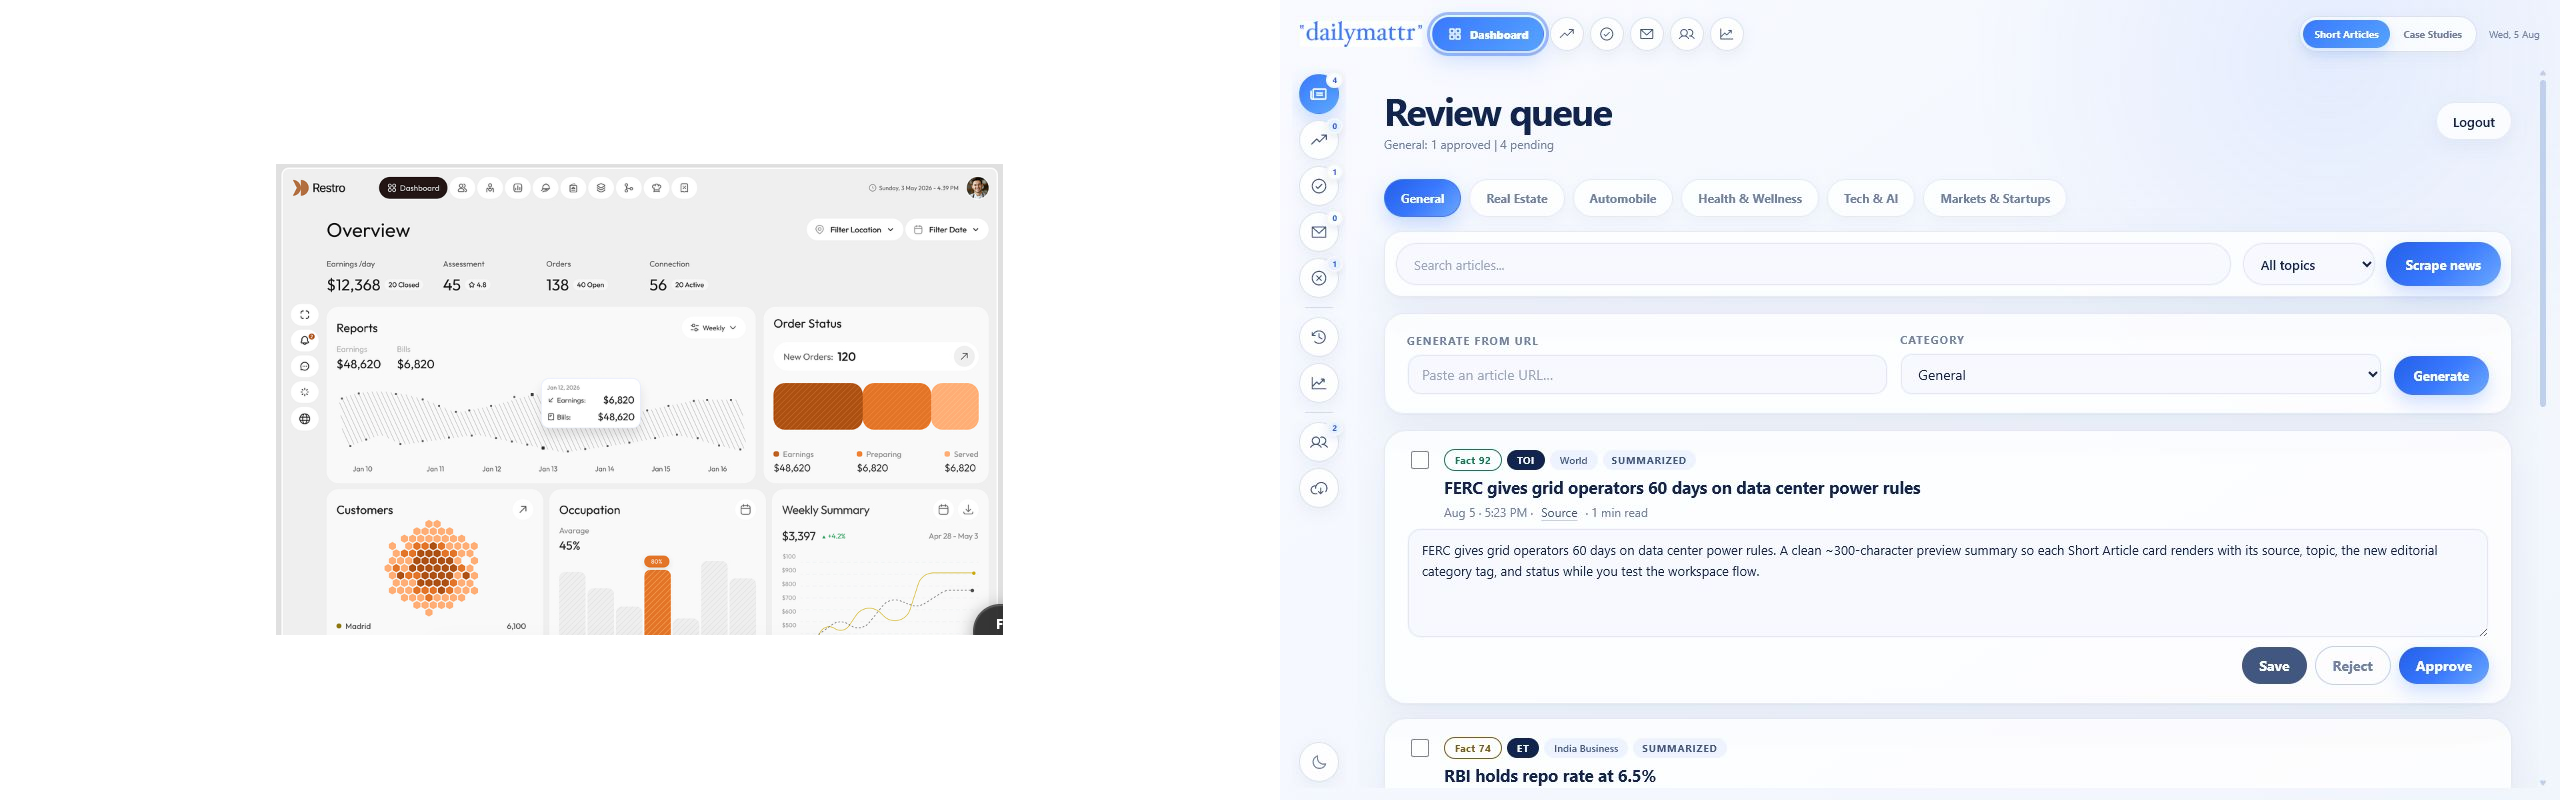
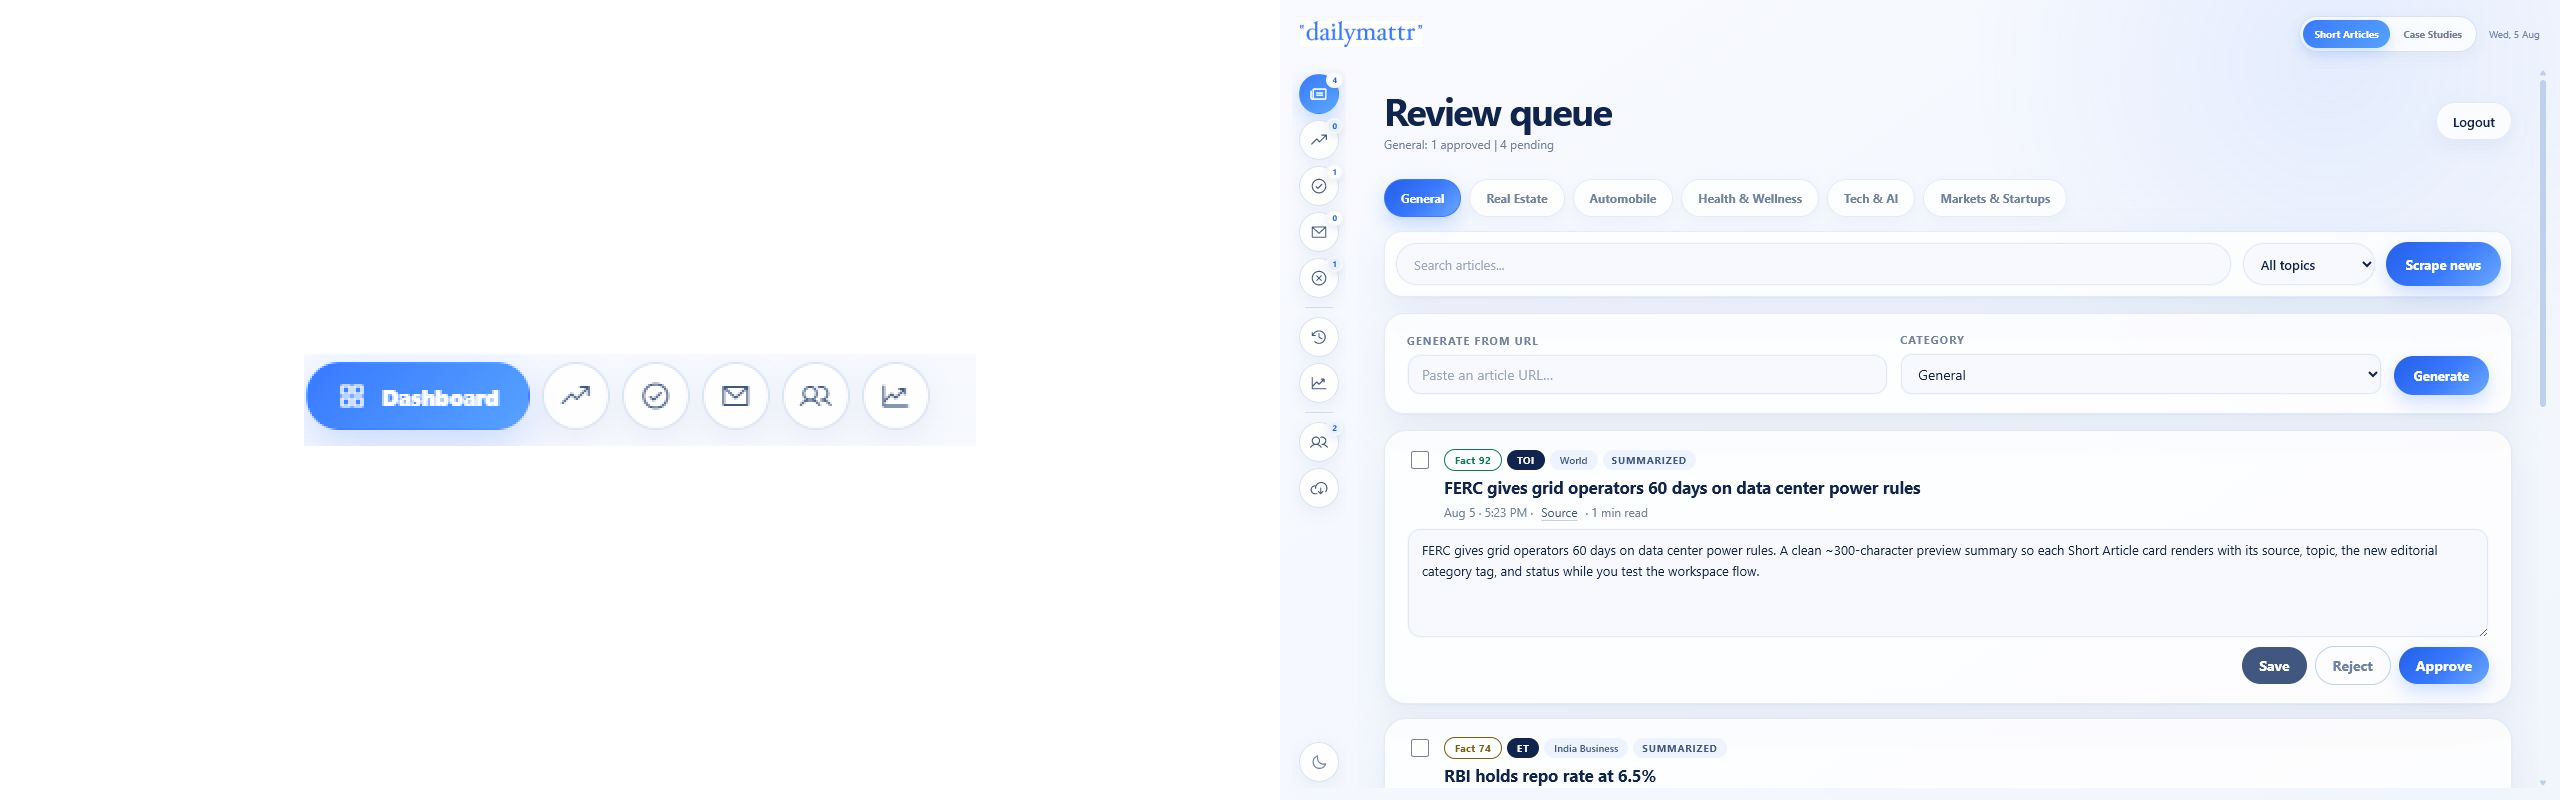
Remove duplicate dashboard shortcuts

diff --git a/styles.css b/styles.css
@@ -1587,63 +1587,6 @@ select:focus {
   object-fit: contain;
 }
 
-.global-shortcuts {
-  display: flex;
-  align-items: center;
-  gap: 6px;
-}
-
-.global-nav-control {
-  position: relative;
-  display: inline-flex;
-  align-items: center;
-  justify-content: center;
-  height: 34px;
-  border: 1px solid rgba(172, 190, 222, 0.42);
-  background: rgba(255, 255, 255, 0.88);
-  color: var(--ink-2);
-  cursor: pointer;
-  box-shadow: 0 5px 14px rgba(42, 70, 123, 0.07);
-  transition:
-    transform 0.22s var(--ease-fluid),
-    color 0.22s var(--ease-fluid),
-    border-color 0.22s var(--ease-fluid),
-    box-shadow 0.22s var(--ease-fluid),
-    background 0.22s var(--ease-fluid);
-}
-
-.global-nav-control:hover {
-  color: var(--brand-deep);
-  border-color: rgba(57, 121, 255, 0.36);
-  transform: translateY(-2px);
-  box-shadow: 0 9px 20px rgba(57, 121, 255, 0.13);
-}
-
-.global-nav-control:active { transform: translateY(0) scale(0.95); }
-
-.global-nav-icon {
-  width: 34px;
-  padding: 0;
-  border-radius: 50%;
-}
-
-.global-nav-control i { font-size: 16px; }
-
-.global-nav-pill {
-  gap: 7px;
-  padding: 0 14px;
-  border-radius: 999px;
-  font-size: 11px;
-  font-weight: 800;
-}
-
-.global-nav-control.active {
-  border-color: transparent;
-  background: linear-gradient(135deg, #3979ff 0%, #56a2ff 100%);
-  color: #fff;
-  box-shadow: 0 8px 22px rgba(57, 121, 255, 0.25);
-}
-
 .global-nav-spacer { flex: 1 1 auto; min-width: 12px; }
 
 .global-nav .workspace-toggle {
@@ -1882,7 +1825,6 @@ select:focus {
   box-shadow: 0 8px 22px rgba(57, 121, 255, 0.2);
 }
 
-[data-theme="dark"] .global-nav-control,
 [data-theme="dark"] .global-nav .workspace-toggle,
 [data-theme="dark"] .global-nav .agent-session,
 [data-theme="dark"] .nav-item,
@@ -1892,7 +1834,6 @@ select:focus {
   color: var(--ink-2);
 }
 
-[data-theme="dark"] .global-nav-control.active,
 [data-theme="dark"] .nav-item.active,
 [data-theme="dark"] .global-nav .ws-btn.active {
   background: linear-gradient(135deg, #3979ff 0%, #56a2ff 100%);
@@ -1915,7 +1856,6 @@ select:focus {
 
 @media (max-width: 1120px) {
   .app { grid-template-columns: 54px minmax(0, 1fr); }
-  .global-nav-secondary,
   .global-date { display: none; }
   .global-brand { flex-basis: 116px; }
   .global-brand-logo { width: 110px; }
@@ -1923,7 +1863,6 @@ select:focus {
 }
 
 @media (max-width: 920px) {
-  .global-shortcuts .global-nav-icon:nth-of-type(n + 4) { display: none; }
   .global-nav .workspace-toggle { margin-left: auto; }
   .global-nav-spacer { display: none; }
   .global-nav .agent-session { display: none; }
@@ -1955,7 +1894,6 @@ select:focus {
 
   .global-brand { flex: 0 0 auto; padding: 0; }
   .global-brand-logo { width: 112px; }
-  .global-shortcuts,
   .global-nav .workspace-toggle,
   .global-date,
   .global-nav .agent-session { display: none; }

diff --git a/index.html b/index.html
@@ -33,27 +33,6 @@
         <div class="global-brand" aria-label="Dailymattr">
           <img class="global-brand-logo" src="./assets/footer-logo.png" alt="Dailymattr" />
         </div>
-        <nav class="global-shortcuts" aria-label="Primary navigation">
-          <button class="global-nav-control global-nav-pill active" type="button" data-nav-target="review">
-            <i class="ph ph-squares-four" aria-hidden="true"></i>
-            <span>Dashboard</span>
-          </button>
-          <button class="global-nav-control global-nav-icon" type="button" data-nav-target="trending" aria-label="Trending" title="Trending">
-            <i class="ph ph-trend-up" aria-hidden="true"></i>
-          </button>
-          <button class="global-nav-control global-nav-icon" type="button" data-nav-target="approved" aria-label="Approved Pool" title="Approved Pool">
-            <i class="ph ph-check-circle" aria-hidden="true"></i>
-          </button>
-          <button class="global-nav-control global-nav-icon" type="button" data-nav-target="email-builder" aria-label="Email Builder" title="Email Builder">
-            <i class="ph ph-envelope-simple" aria-hidden="true"></i>
-          </button>
-          <button class="global-nav-control global-nav-icon" type="button" data-nav-target="subscribers" aria-label="Subscribers" title="Subscribers">
-            <i class="ph ph-users" aria-hidden="true"></i>
-          </button>
-          <button class="global-nav-control global-nav-icon global-nav-secondary" type="button" data-nav-target="analytics" aria-label="Analytics" title="Analytics">
-            <i class="ph ph-chart-line-up" aria-hidden="true"></i>
-          </button>
-        </nav>
         <div class="global-nav-spacer"></div>
         <div class="workspace-toggle" id="workspaceToggle" role="tablist" aria-label="Workspace">
           <button class="ws-btn active" data-workspace="short" role="tab" aria-selected="true">Short Articles</button>

diff --git a/app.js b/app.js
@@ -2492,7 +2492,6 @@ function showSection(name) {
   state.section = name;
   $$(".section").forEach((s) => s.classList.toggle("active", s.dataset.section === name));
   $$(".nav-item").forEach((b) => b.classList.toggle("active", b.dataset.section === name));
-  $$(".global-nav-control").forEach((b) => b.classList.toggle("active", b.dataset.navTarget === name));
   refreshChrome();
   if (name === "trending") {
     renderTrending();
@@ -2545,13 +2544,6 @@ $("#workspaceToggle")?.addEventListener("click", (e) => {
 $$(".nav-item").forEach((btn) =>
   btn.addEventListener("click", () => {
     showSection(btn.dataset.section);
-    closeMenu();
-  })
-);
-
-$$('.global-nav-control').forEach((btn) =>
-  btn.addEventListener('click', () => {
-    showSection(btn.dataset.navTarget);
     closeMenu();
   })
 );

diff --git a/design-qa.md b/design-qa.md
@@ -2,21 +2,21 @@
 
 ## Evidence
 
-- Source visual truth: `C:\Users\User\AppData\Local\Temp\codex-clipboard-241c1121-357a-4103-993d-cfcf66b68d65.png`
+- Removal reference: `C:\Users\User\AppData\Local\Temp\codex-clipboard-ec6dc415-4776-4ac9-9ab2-6bbe0f3524e9.png`
 - Implementation: `C:\Users\User\Documents\shortly-ai-emailer\design-qa-implementation-final.png`
 - Combined comparison: `C:\Users\User\Documents\shortly-ai-emailer\design-qa-comparison.png`
 - Responsive evidence: `C:\Users\User\Documents\shortly-ai-emailer\design-qa-mobile.png`
-- Reference pixels: 724 x 472.
+- Removal reference pixels: 340 x 62.
 - Implementation viewport: 1280 x 800 at device scale 1.
 - State: light theme, Short Articles workspace, Review queue, General category.
 
 ## Full-view Comparison
 
-The navigation architecture now follows the supplied reference: a slim global command bar contains the brand, primary shortcuts, workspace switcher, date, and account state; a separate icon-only utility rail runs beside an open content canvas. Dailymattr's blue gradient anchored at `#3979ff` replaces the reference orange while the existing editorial content and workflows remain unchanged.
+The duplicated Dashboard and circular shortcut group has been removed from the global header. The header now contains only the brand, workspace switcher, date, and account state, while the icon rail remains the single navigation source.
 
 ## Fidelity Surfaces
 
-- Top navigation: compact brand, gradient Dashboard pill, circular icon controls, right-aligned workspace switcher, date, and account state.
+- Top navigation: compact brand with a right-aligned workspace switcher, date, and account state; no duplicate navigation controls.
 - Side navigation: narrow circular icon rail with count badges and a bottom theme control; no oversized sidebar panel remains.
 - Content canvas: open pale background, strong title hierarchy, white floating surfaces, restrained borders, and gentle elevation.
 - Icons and assets: Phosphor icons replace text glyphs; the supplied Dailymattr wordmark remains sharp and correctly scaled.
@@ -24,7 +24,8 @@ The navigation architecture now follows the supplied reference: a slim global co
 
 ## Interaction Checks
 
-- Dashboard and Email Builder top shortcuts opened the correct sections.
+- Duplicate top shortcut DOM count: zero.
+- Left navigation remains available for all sections.
 - Case Studies switched to Case Drafts.
 - Mobile menu opened the labeled navigation drawer.
 - Desktop and mobile navigation controls were visually inspected.
@@ -36,6 +37,7 @@ The navigation architecture now follows the supplied reference: a slim global co
 1. First pass: P1 navigation still resembled the previous full-height sidebar. Replaced it with a global command bar and icon rail.
 2. Second pass: P1 mobile drawer control was hidden by a cascade conflict. Restored the control and verified drawer opening.
 3. Third pass: P2 icon rail produced a horizontal overflow artifact. Removed the custom tooltip overflow and retained native titles.
-4. Final pass: no actionable P0, P1, or P2 findings remain.
+4. Fourth pass: P2 duplicate top navigation repeated the icon rail controls. Removed its markup, handlers, and styles.
+5. Final pass: no actionable P0, P1, or P2 findings remain.
 
 final result: passed
